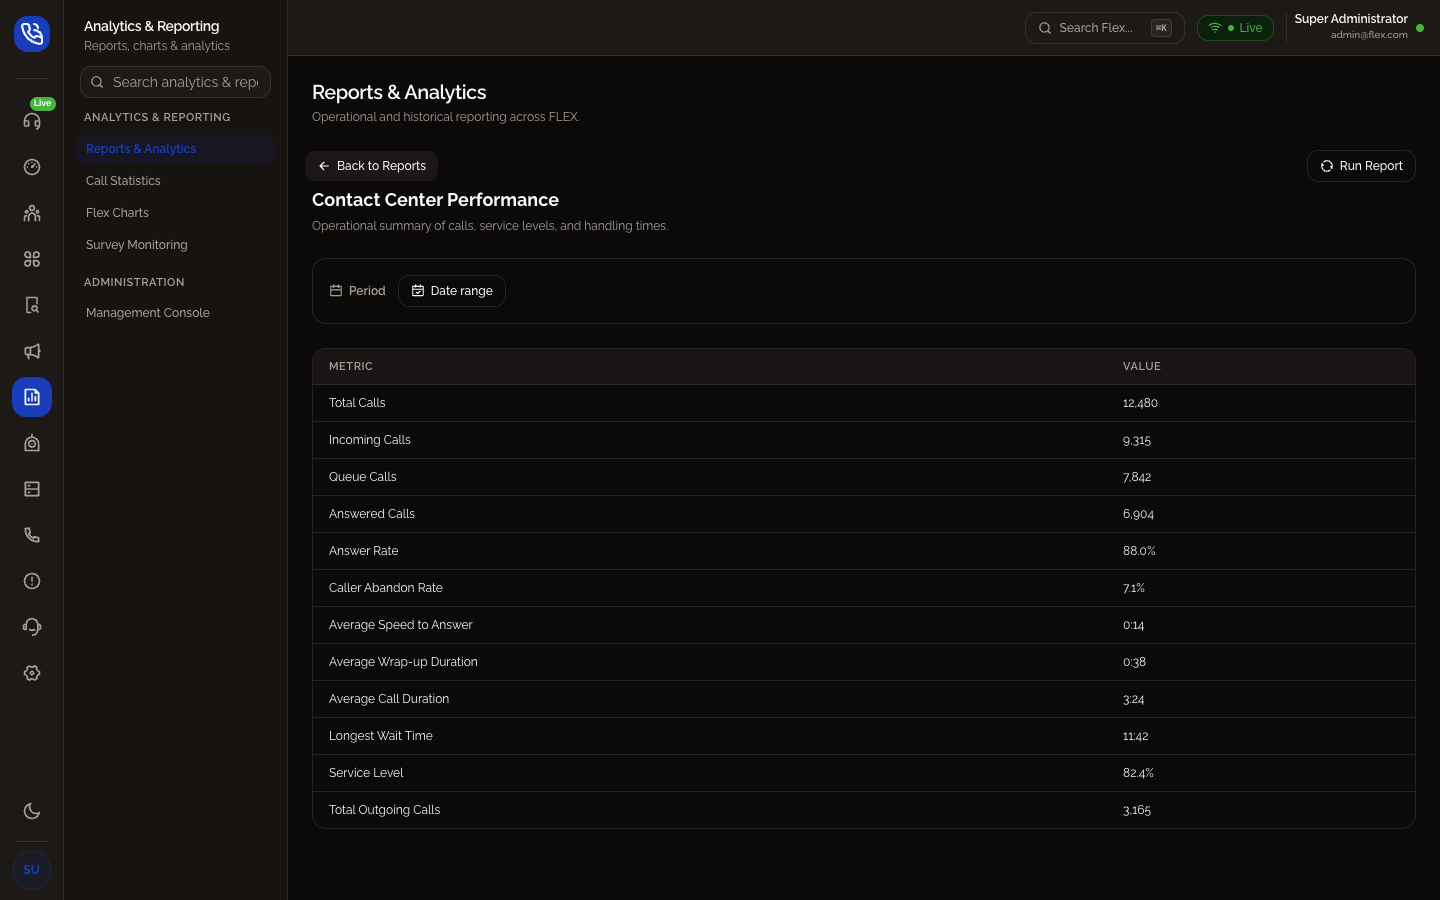
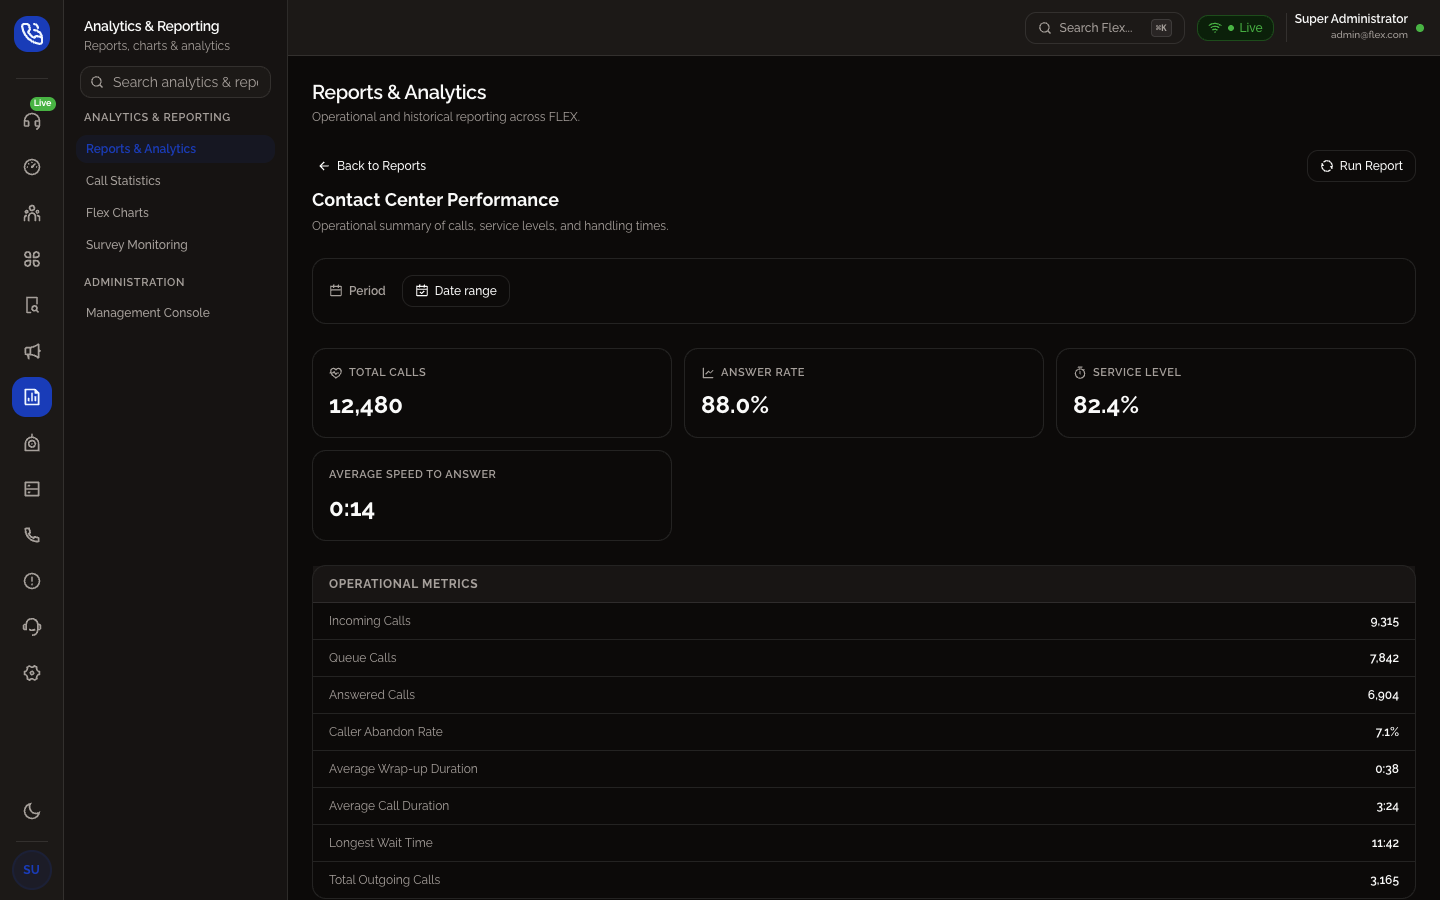
refactor(reports): modernize contact center performance reports

diff --git a/my-app/resources/js/features/reports/viewers/yearly-performance.tsx b/my-app/resources/js/features/reports/viewers/yearly-performance.tsx
@@ -1,0 +1,74 @@
+import React from 'react';
+import { ResponsiveContainer, Tooltip, XAxis, YAxis, Line, LineChart, CartesianGrid } from 'recharts';
+import type { ReportRun } from '@/features/reports/report-types';
+
+/**
+ * Yearly Contact Center Performance — year context, a monthly data table, and a
+ * quiet volume trend line using the same underlying data. No comparison years
+ * beyond what the report provides; no animated count-ups.
+ */
+export function YearlyPerformanceViewer({ run }: { run: ReportRun }) {
+    const data = run.data as { reportId: 'yearly-performance'; rows: YearlyRow[]; year: string };
+    const rows = data.rows;
+
+    return (
+        <div className="flex flex-col gap-[var(--flex-space-section)] w-full">
+            <div className="rounded-lg border border-border bg-background p-4">
+                <div className="mb-3 flex items-center justify-between">
+                    <h3 className="text-xs font-bold uppercase tracking-wider text-flex-text-muted">Monthly Trend</h3>
+                    <span className="text-xs font-semibold text-flex-text-primary">Year {data.year}</span>
+                </div>
+                <ResponsiveContainer width="100%" height={220}>
+                    <LineChart data={rows} margin={{ top: 8, right: 16, bottom: 0, left: 0 }}>
+                        <CartesianGrid strokeDasharray="3 3" stroke="var(--flex-border, #e2e8f0)" vertical={false} />
+                        <XAxis dataKey="month" tick={{ fontSize: 11, fill: 'var(--flex-text-muted)' }} tickLine={false} axisLine={false} />
+                        <YAxis tick={{ fontSize: 11, fill: 'var(--flex-text-muted)' }} tickLine={false} axisLine={false} width={42} />
+                        <Tooltip
+                            contentStyle={{ fontSize: 12, borderRadius: 8, border: '1px solid var(--flex-border)' }}
+                        />
+                        <Line type="monotone" dataKey="totalCalls" stroke="var(--flex-primary)" strokeWidth={2} dot={false} name="Total Calls" />
+                    </LineChart>
+                </ResponsiveContainer>
+            </div>
+
+            <div className="overflow-hidden rounded-lg border border-border bg-background">
+                <div className="overflow-x-auto">
+                    <table className="w-full text-sm">
+                        <thead>
+                            <tr className="border-b border-border bg-muted/40 text-left">
+                                {['Month', 'Total Calls', 'Incoming Calls', 'Calls to Agent', 'Answered Calls', 'Answer Rate', 'Abandoned Rate'].map((header) => (
+                                    <th key={header} className="px-4 py-2.5 text-[11px] font-semibold uppercase tracking-wider text-flex-text-muted whitespace-nowrap">
+                                        {header}
+                                    </th>
+                                ))}
+                            </tr>
+                        </thead>
+                        <tbody>
+                            {rows.map((row) => (
+                                <tr key={row.month} className="border-b border-border last:border-b-0 hover:bg-muted/30 transition-colors">
+                                    <td className="px-4 py-2.5 text-xs font-semibold text-flex-text-primary">{row.month}</td>
+                                    <td className="px-4 py-2.5 text-xs tabular-nums text-flex-text-primary">{row.totalCalls.toLocaleString()}</td>
+                                    <td className="px-4 py-2.5 text-xs tabular-nums text-flex-text-primary">{row.incomingCalls.toLocaleString()}</td>
+                                    <td className="px-4 py-2.5 text-xs tabular-nums text-flex-text-primary">{row.callsToAgent.toLocaleString()}</td>
+                                    <td className="px-4 py-2.5 text-xs tabular-nums text-flex-text-primary">{row.answeredCalls.toLocaleString()}</td>
+                                    <td className="px-4 py-2.5 text-xs tabular-nums text-flex-text-primary">{row.answerRate.toFixed(1)}%</td>
+                                    <td className="px-4 py-2.5 text-xs tabular-nums text-flex-text-primary">{row.abandonedRate.toFixed(1)}%</td>
+                                </tr>
+                            ))}
+                        </tbody>
+                    </table>
+                </div>
+            </div>
+        </div>
+    );
+}
+
+interface YearlyRow {
+    month: string;
+    totalCalls: number;
+    incomingCalls: number;
+    callsToAgent: number;
+    answeredCalls: number;
+    answerRate: number;
+    abandonedRate: number;
+}

diff --git a/my-app/resources/js/features/reports/viewers/contact-center-performance.tsx b/my-app/resources/js/features/reports/viewers/contact-center-performance.tsx
@@ -1,0 +1,64 @@
+import { RiHeartPulseLine, RiLineChartLine, RiTimerLine } from '@remixicon/react';
+import React from 'react';
+import type { ReportRun } from '@/features/reports/report-types';
+
+const PRIMARY_KEYS = ['Total Calls', 'Answer Rate', 'Service Level', 'Average Speed to Answer'];
+
+/**
+ * Contact Center Performance — section-first hierarchy. A restrained primary
+ * operational strip (volume, service level, speed to answer) then a dense
+ * secondary metrics table. No 12 equal KPI cards.
+ */
+export function ContactCenterPerformanceViewer({ run }: { run: ReportRun }) {
+    const data = run.data as { reportId: 'contact-center-performance'; rows: { metric: string; value: string }[] };
+    const rows = data.rows;
+
+    const primary = PRIMARY_KEYS.map((key) => rows.find((row) => row.metric === key)).filter(
+        (row): row is { metric: string; value: string } => Boolean(row)
+    );
+    const secondary = rows.filter((row) => !PRIMARY_KEYS.includes(row.metric));
+
+    const stripMeta = [
+        { label: 'Volume', Icon: RiHeartPulseLine },
+        { label: 'Service', Icon: RiLineChartLine },
+        { label: 'Speed to Answer', Icon: RiTimerLine },
+    ];
+
+    return (
+        <div className="flex flex-col gap-[var(--flex-space-section)] w-full">
+            <div className="grid grid-cols-1 sm:grid-cols-3 gap-3">
+                {primary.map((row, index) => (
+                    <div key={row.metric} className="rounded-lg border border-border bg-background p-4">
+                        <div className="flex items-center gap-1.5 text-[11px] font-semibold uppercase tracking-wider text-flex-text-muted">
+                            {(() => {
+                                const Icon = stripMeta[index]?.Icon;
+
+                                return Icon ? <Icon className="size-3.5" /> : null;
+                            })()}
+                            <span>{row.metric}</span>
+                        </div>
+                        <p className="mt-2 text-2xl font-bold tabular-nums text-flex-text-primary">{row.value}</p>
+                    </div>
+                ))}
+            </div>
+
+            <div className="rounded-lg border border-border bg-background">
+                <div className="border-b border-border bg-muted/40 px-4 py-2.5">
+                    <h3 className="text-xs font-bold uppercase tracking-wider text-flex-text-muted">Operational Metrics</h3>
+                </div>
+                <table className="w-full text-sm">
+                    <tbody>
+                        {secondary.map((row) => (
+                            <tr key={row.metric} className="border-b border-border last:border-b-0">
+                                <td className="px-4 py-2.5 text-xs text-flex-text-muted">{row.metric}</td>
+                                <td className="px-4 py-2.5 text-right text-xs font-semibold tabular-nums text-flex-text-primary">
+                                    {row.value}
+                                </td>
+                            </tr>
+                        ))}
+                    </tbody>
+                </table>
+            </div>
+        </div>
+    );
+}

diff --git a/my-app/resources/js/features/reports/viewers/index.tsx b/my-app/resources/js/features/reports/viewers/index.tsx
@@ -1,0 +1,25 @@
+import React from 'react';
+import type { ReportDefinition } from '@/features/reports/report-registry';
+import { ReportResults } from '@/features/reports/report-results';
+import type { ReportQuery, ReportRun } from '@/features/reports/report-types';
+import { AgentPerformanceViewer } from '@/features/reports/viewers/agent-performance';
+import { ContactCenterPerformanceViewer } from '@/features/reports/viewers/contact-center-performance';
+import { YearlyPerformanceViewer } from '@/features/reports/viewers/yearly-performance';
+
+/**
+ * Dispatches a ready report run to its specialized viewer. Reports with
+ * materially different structures get their own composition; simpler reports
+ * fall back to the canonical dense table.
+ */
+export function ReportViewerContent({ run }: { run: ReportRun; report: ReportDefinition; query: ReportQuery }) {
+    switch (run.reportId) {
+        case 'contact-center-performance':
+            return <ContactCenterPerformanceViewer run={run} />;
+        case 'yearly-performance':
+            return <YearlyPerformanceViewer run={run} />;
+        case 'agent-performance':
+            return <AgentPerformanceViewer run={run} />;
+        default:
+            return <ReportResults run={run} />;
+    }
+}

diff --git a/my-app/resources/js/features/reports/reports-page.tsx b/my-app/resources/js/features/reports/reports-page.tsx
@@ -5,9 +5,9 @@ import type { ContextSidebarGroup } from '@/components/flex/context-sidebar';
 import { ReportFilterBar } from '@/features/reports/report-filter-bar';
 import { ReportLibrary } from '@/features/reports/report-library';
 import { getReportById, REPORTS } from '@/features/reports/report-registry';
-import { ReportResults } from '@/features/reports/report-results';
-import type { ReportQuery, ReportRun } from '@/features/reports/report-types';
+import type { ReportQuery } from '@/features/reports/report-types';
 import { ReportViewer } from '@/features/reports/report-viewer';
+import { ReportViewerContent } from '@/features/reports/viewers';
 import { AdminShell } from '@/layouts/admin-shell';
 
 const reportsContextGroups: ContextSidebarGroup[] = [
@@ -75,7 +75,7 @@ export function ReportsPage() {
                     onQueryChange={setQuery}
                     onBack={openLibrary}
                     renderFilters={(q, change) => <ReportFilterBar report={activeReport} query={q} onQueryChange={change} />}
-                    renderResult={(run: ReportRun) => <ReportResults run={run} />}
+                    renderResult={(run) => <ReportViewerContent run={run} report={activeReport} query={query} />}
                 />
             )}
 

diff --git a/my-app/resources/js/features/reports/viewers/agent-performance.tsx b/my-app/resources/js/features/reports/viewers/agent-performance.tsx
@@ -1,0 +1,12 @@
+import React from 'react';
+import { ReportResults } from '@/features/reports/report-results';
+import type { ReportRun } from '@/features/reports/report-types';
+
+/**
+ * Agent Performance — table-first view. Full section composition arrives in a
+ * later phase; this reuses the canonical dense table so the viewer dispatcher
+ * has a stable entry point.
+ */
+export function AgentPerformanceViewer({ run }: { run: ReportRun }) {
+    return <ReportResults run={run} />;
+}
